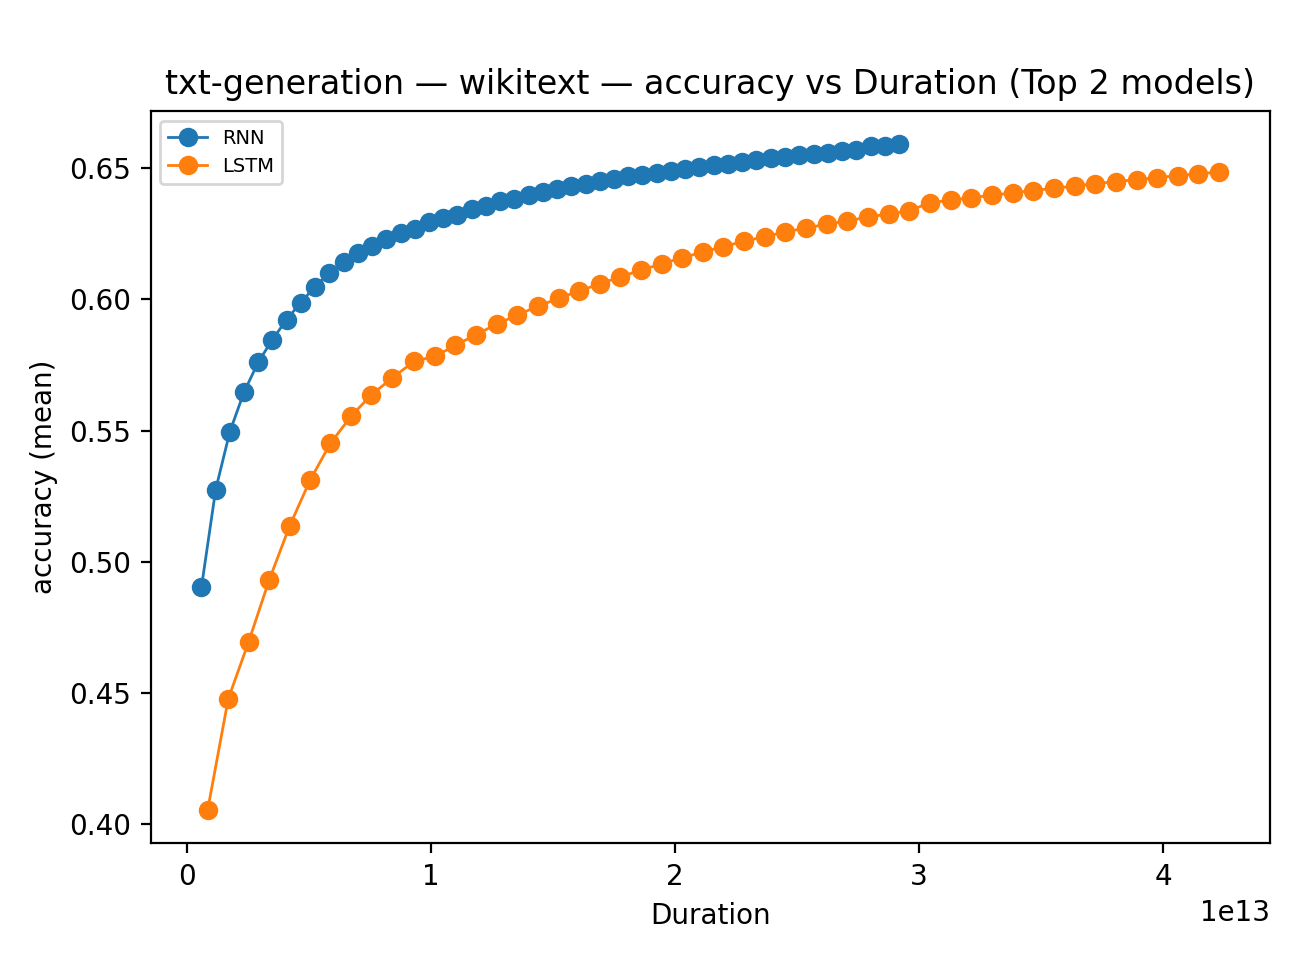
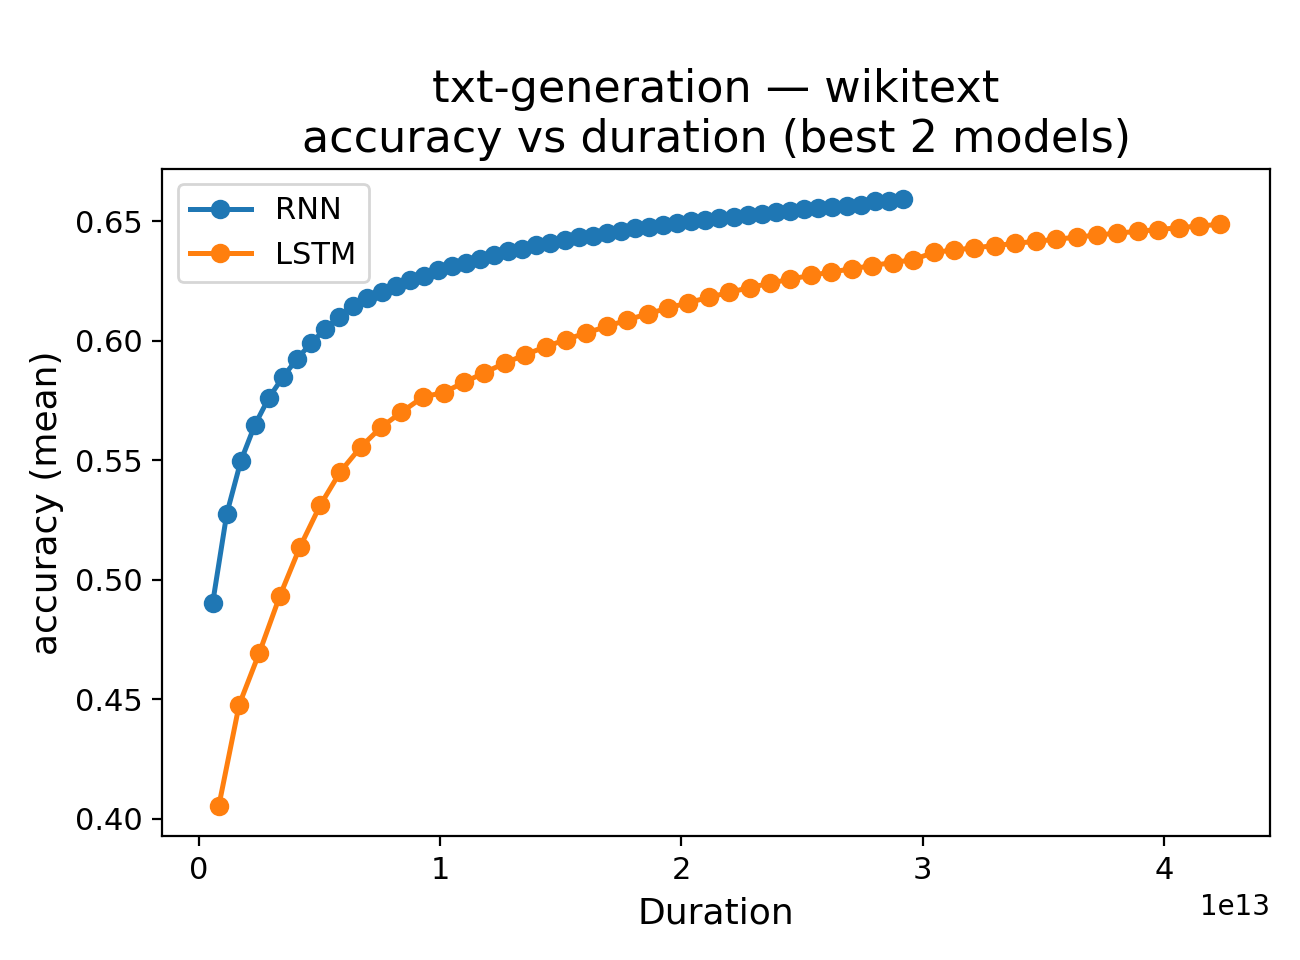
make texts on the plots bigger

diff --git a/ab/stat/create_stats.py b/ab/stat/create_stats.py
@@ -149,8 +149,14 @@ def plot_task_metric_vs_duration_topk_models_per_dataset_grid(
     use_lines=True,
     figsize_per_col=6.5,
     figsize_per_row=4.8,
-    ylabel=None,                 
+    ylabel=None,
+
+    title_fontsize=14,
+    label_fontsize=12,
+    tick_fontsize=10,
+    legend_fontsize=10,
 ):
+
     os.makedirs(outdir, exist_ok=True)
 
     d = df[df["task"] == task_name].copy()
@@ -187,6 +193,7 @@ def plot_task_metric_vs_duration_topk_models_per_dataset_grid(
         ncols=ncols,
         figsize=(figsize_per_col * ncols, figsize_per_row * nrows),
     )
+
     if nrows * ncols == 1:
         axes = np.array([axes])
     axes = np.array(axes).flatten()
@@ -202,7 +209,6 @@ def plot_task_metric_vs_duration_topk_models_per_dataset_grid(
 
         gb = sub.groupby(run_cols)[value_col]
         idx = getattr(gb, chooser)().dropna().astype(int)
-
         best_rows = sub.loc[idx].copy()  
 
         model_rank = best_rows.groupby("nn")[value_col].mean()
@@ -226,15 +232,26 @@ def plot_task_metric_vs_duration_topk_models_per_dataset_grid(
                 continue
 
             if use_lines:
-                ax.plot(curve["dur"], curve["val"], marker="o", linewidth=1, label=str(nn))
+                ax.plot(curve["dur"], curve["val"], marker="o", linewidth=1.8, label=str(nn))
             else:
                 ax.scatter(curve["dur"], curve["val"], s=18, alpha=0.8, label=str(nn))
 
-        ax.set_xlabel("Duration")
-        ax.set_ylabel(ylabel or f"{value_col} (mean)")
+        ax.set_xlabel("Duration", fontsize=label_fontsize)
+        ax.set_ylabel(ylabel or f"{value_col} (mean)", fontsize=label_fontsize)
+
         metric_part = f" ({metric_name})" if metric_name is not None else ""
-        ax.set_title(f"{task_name}{metric_part} — {dataset} — {value_col} vs Duration (Top {len(top_models)} models)")
-        ax.legend(fontsize=7)
+        # ax.set_title(
+        #     f"{task_name}{metric_part} — {dataset} — {value_col} vs Duration (Top {len(top_models)} models)",
+        #     fontsize=title_fontsize,
+        # )
+        title_line1 = f"{task_name}{metric_part} — {dataset}"
+        title_line2 = f"{value_col} vs duration (best {len(top_models)} models)"
+
+        ax.set_title(title_line1 + "\n" + title_line2, fontsize=title_fontsize)
+
+
+        ax.tick_params(axis="both", labelsize=tick_fontsize)
+        ax.legend(fontsize=legend_fontsize)
 
     for j in range(len(datasets), len(axes)):
         axes[j].axis("off")
@@ -246,6 +263,7 @@ def plot_task_metric_vs_duration_topk_models_per_dataset_grid(
         outdir,
         f"{task_name}{metric_tag}_{value_col}_vs_{duration_col}_top{top_k}_models_grid.png"
     )
+
     fig.savefig(fname, dpi=200)
     plt.close(fig)
     print(f"Saved: {fname}")
@@ -262,7 +280,12 @@ def plot_task_metric_vs_epoch_topk_models_per_dataset_grid(
     max_cols=3,
     figsize_per_col=6.5,
     figsize_per_row=4.8,
-    ylabel=None,              
+    ylabel=None,
+    title_fontsize=14,
+    label_fontsize=12,
+    tick_fontsize=10,
+    legend_fontsize=10,
+    palette=None,  
 ):
     os.makedirs(outdir, exist_ok=True)
 
@@ -297,11 +320,15 @@ def plot_task_metric_vs_epoch_topk_models_per_dataset_grid(
         ncols=ncols,
         figsize=(figsize_per_col * ncols, figsize_per_row * nrows),
     )
+
     if nrows * ncols == 1:
         axes = np.array([axes])
     axes = np.array(axes).flatten()
 
     chooser = "idxmax" if higher_is_better else "idxmin"
+
+    cmap = plt.get_cmap(palette)
+    
 
     for ax_i, dataset in enumerate(datasets):
         ax = axes[ax_i]
@@ -322,16 +349,32 @@ def plot_task_metric_vs_epoch_topk_models_per_dataset_grid(
             ax.axis("off")
             continue
 
-        for nn in top_models:
+        for i, nn in enumerate(top_models):
             m = sub[sub["nn"] == nn]
             curve = m.groupby("epoch")[value_col].mean().sort_index()
-            ax.plot(curve.index, curve.values, marker="o", linewidth=1, label=str(nn))
 
-        ax.set_xlabel("Epoch")
-        ax.set_ylabel(ylabel or f"{value_col} (mean)")
+            color = cmap(i / max(len(top_models)-1, 1))
+
+            ax.plot(
+                curve.index,
+                curve.values,
+                marker="o",
+                linewidth=1.8,
+                label=str(nn),
+                color=color
+            )
+
+        ax.set_xlabel("Epoch", fontsize=label_fontsize)
+        ax.set_ylabel(ylabel or f"{value_col} (mean)", fontsize=label_fontsize)
+
         metric_part = f" ({metric_name})" if metric_name is not None else ""
-        ax.set_title(f"{task_name}{metric_part} — {dataset} — Top {len(top_models)} models")
-        ax.legend(fontsize=7)
+        ax.set_title(
+            f"{task_name}{metric_part} — {dataset} — best {len(top_models)} models",
+            fontsize=title_fontsize
+        )
+
+        ax.tick_params(axis="both", labelsize=tick_fontsize)
+        ax.legend(fontsize=legend_fontsize)
 
     for j in range(len(datasets), len(axes)):
         axes[j].axis("off")
@@ -345,7 +388,6 @@ def plot_task_metric_vs_epoch_topk_models_per_dataset_grid(
 
     print(f"Saved: {fname}")
 
-
 #plot best per run distribution
 def plot_task_best_metric_distribution(
     df,
@@ -356,8 +398,12 @@ def plot_task_best_metric_distribution(
     top_k=10,
     higher_is_better=True,
     dataset=None,
-    figsize=(10, 6),
+    figsize=(6.5, 4.8),
     bw_adjust=1.0,
+    title_fontsize=16,
+    label_fontsize=13,
+    tick_fontsize=11,
+    legend_fontsize=11,
 ):
     os.makedirs(outdir, exist_ok=True)
 
@@ -429,11 +475,18 @@ def plot_task_best_metric_distribution(
     if metric_name:
         title_parts.append(metric_name.upper())
 
-    plt.title(" — ".join(title_parts) + " — Best-per-run Distribution")
-    plt.xlabel(metric_label)
-    plt.ylabel("Density")
-    plt.legend(title="Model", fontsize=9)
+
+    plt.title(
+    " — ".join(title_parts) + " — Best-per-run Distribution",
+    fontsize=title_fontsize
+)
+    plt.xlabel(metric_label, fontsize=label_fontsize)
+    plt.ylabel("Density", fontsize=label_fontsize)
+    plt.xticks(fontsize=tick_fontsize)
+    plt.yticks(fontsize=tick_fontsize)
+    plt.legend(title="Model", fontsize=6)
     plt.tight_layout()
+
 
     metric_tag = f"_{metric_name}" if metric_name else ""
     dataset_tag = f"_{dataset}" if dataset else ""
@@ -480,6 +533,10 @@ def plot_pareto_best_vs_duration(
     dataset=None,
     figsize=(10.5, 6.5),
     logx=False,
+    title_fontsize=16,
+    label_fontsize=13,
+    tick_fontsize=11,
+    legend_fontsize=11,
 ):
     os.makedirs(outdir, exist_ok=True)
 
@@ -530,11 +587,14 @@ def plot_pareto_best_vs_duration(
     title = f"{task_name} — Best-per-run {metric_label} vs {duration_col} (Pareto)"
     if dataset is not None:
         title += f" — {dataset}"
-    plt.title(title)
-    plt.xlabel(duration_col)
-    plt.ylabel(metric_label)
-    plt.legend(fontsize=8, ncol=2, frameon=False)
+    plt.title(title, fontsize=title_fontsize)
+    plt.xlabel(duration_col, fontsize=label_fontsize)
+    plt.ylabel(metric_label, fontsize=label_fontsize)
+    plt.xticks(fontsize=tick_fontsize)
+    plt.yticks(fontsize=tick_fontsize)
+    plt.legend(fontsize=7, ncol=2, frameon=False)
     plt.tight_layout()
+
 
     metric_tag = f"_{metric_name}" if metric_name else ""
     dataset_tag = f"_{str(dataset).replace('/','_').replace(' ','_')}" if dataset is not None else ""
@@ -628,7 +688,8 @@ def combine_pngs_to_grid(
     out_path,
     ncols=3,
     figsize_per_cell=(6.5, 3.8),
-    titles=None,              
+    titles=None,  
+    title_fontsize=16,            
     dpi=220,
     pad=0.02,
     bg_color="white",
@@ -659,7 +720,7 @@ def combine_pngs_to_grid(
         ax.axis("off")
 
         if titles is not None and i < len(titles) and titles[i]:
-            ax.set_title(titles[i], fontsize=12)
+            ax.set_title(titles[i], fontsize=title_fontsize)
 
     plt.subplots_adjust(wspace=pad, hspace=pad)
     os.makedirs(os.path.dirname(out_path) or ".", exist_ok=True)
@@ -683,6 +744,10 @@ def main():
     top_k=5,
     value_col="accuracy",
     higher_is_better=True,
+    title_fontsize=16,
+    label_fontsize=13,
+    tick_fontsize=11,
+    legend_fontsize=11,
     )
 
     plot_task_metric_vs_duration_topk_models_per_dataset_grid(
@@ -692,6 +757,10 @@ def main():
     value_col="accuracy",
     higher_is_better=True,
     max_cols=2,
+    title_fontsize=16,
+    label_fontsize=13,
+    tick_fontsize=11,
+    legend_fontsize=11,
     )
 
     plot_task_metric_vs_duration_topk_models_per_dataset_grid(
@@ -703,14 +772,23 @@ def main():
     metric_name="iou",              
     higher_is_better=True,
     ylabel="IoU (mean)",
+    title_fontsize=16,
+    label_fontsize=13,
+    tick_fontsize=11,
+    legend_fontsize=11,
     )
-   
+
     plot_task_metric_vs_epoch_topk_models_per_dataset_grid(
     df,
     task_name="img-classification",
     value_col="accuracy",
     top_k=5,
     ylabel="Accuracy (mean)",
+    title_fontsize=16,
+    label_fontsize=13,
+    tick_fontsize=11,
+    legend_fontsize=11,
+    palette="Set2"
     )
 
     plot_task_metric_vs_epoch_topk_models_per_dataset_grid(
@@ -720,6 +798,11 @@ def main():
     top_k=5,
     value_col="accuracy",
     ylabel="IoU (mean)",
+    title_fontsize=16,
+    label_fontsize=13,
+    tick_fontsize=11,
+    legend_fontsize=11,
+    palette="tab10"
     )
 
     plot_task_metric_vs_epoch_topk_models_per_dataset_grid(
@@ -729,6 +812,11 @@ def main():
     top_k=5,
     value_col="accuracy",
     ylabel="BLEU (mean)",
+    title_fontsize=16,
+    label_fontsize=13,
+    tick_fontsize=11,
+    legend_fontsize=11,
+    palette="Set2"
     )
 
     plot_task_metric_vs_epoch_topk_models_per_dataset_grid(
@@ -738,6 +826,11 @@ def main():
     value_col="accuracy",
     ylabel="Accuracy (mean)",
     max_cols=2,
+    title_fontsize=16,
+    label_fontsize=13,
+    tick_fontsize=11,
+    legend_fontsize=11,
+    palette="Dark2"
     )
 
     plot_task_best_metric_distribution(
